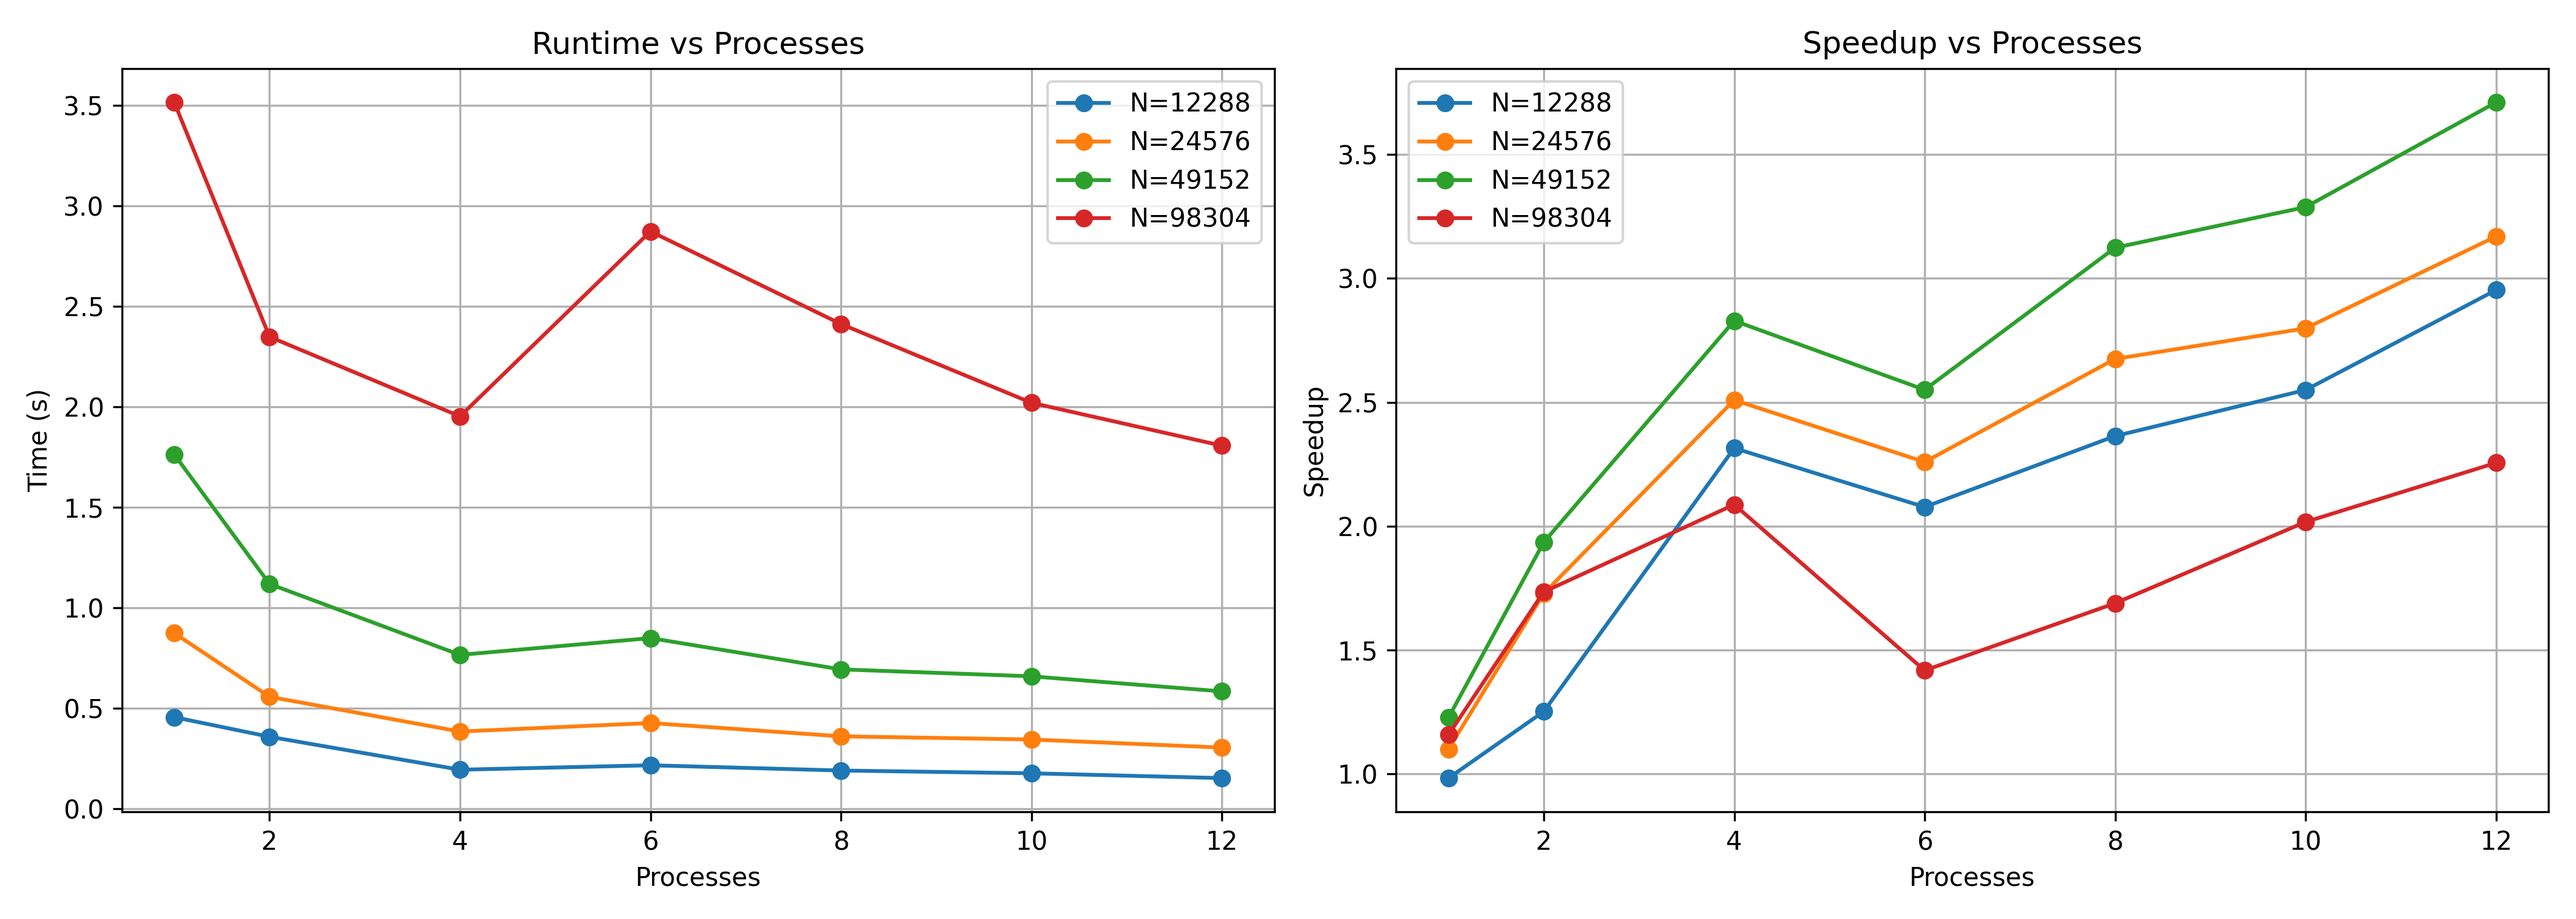
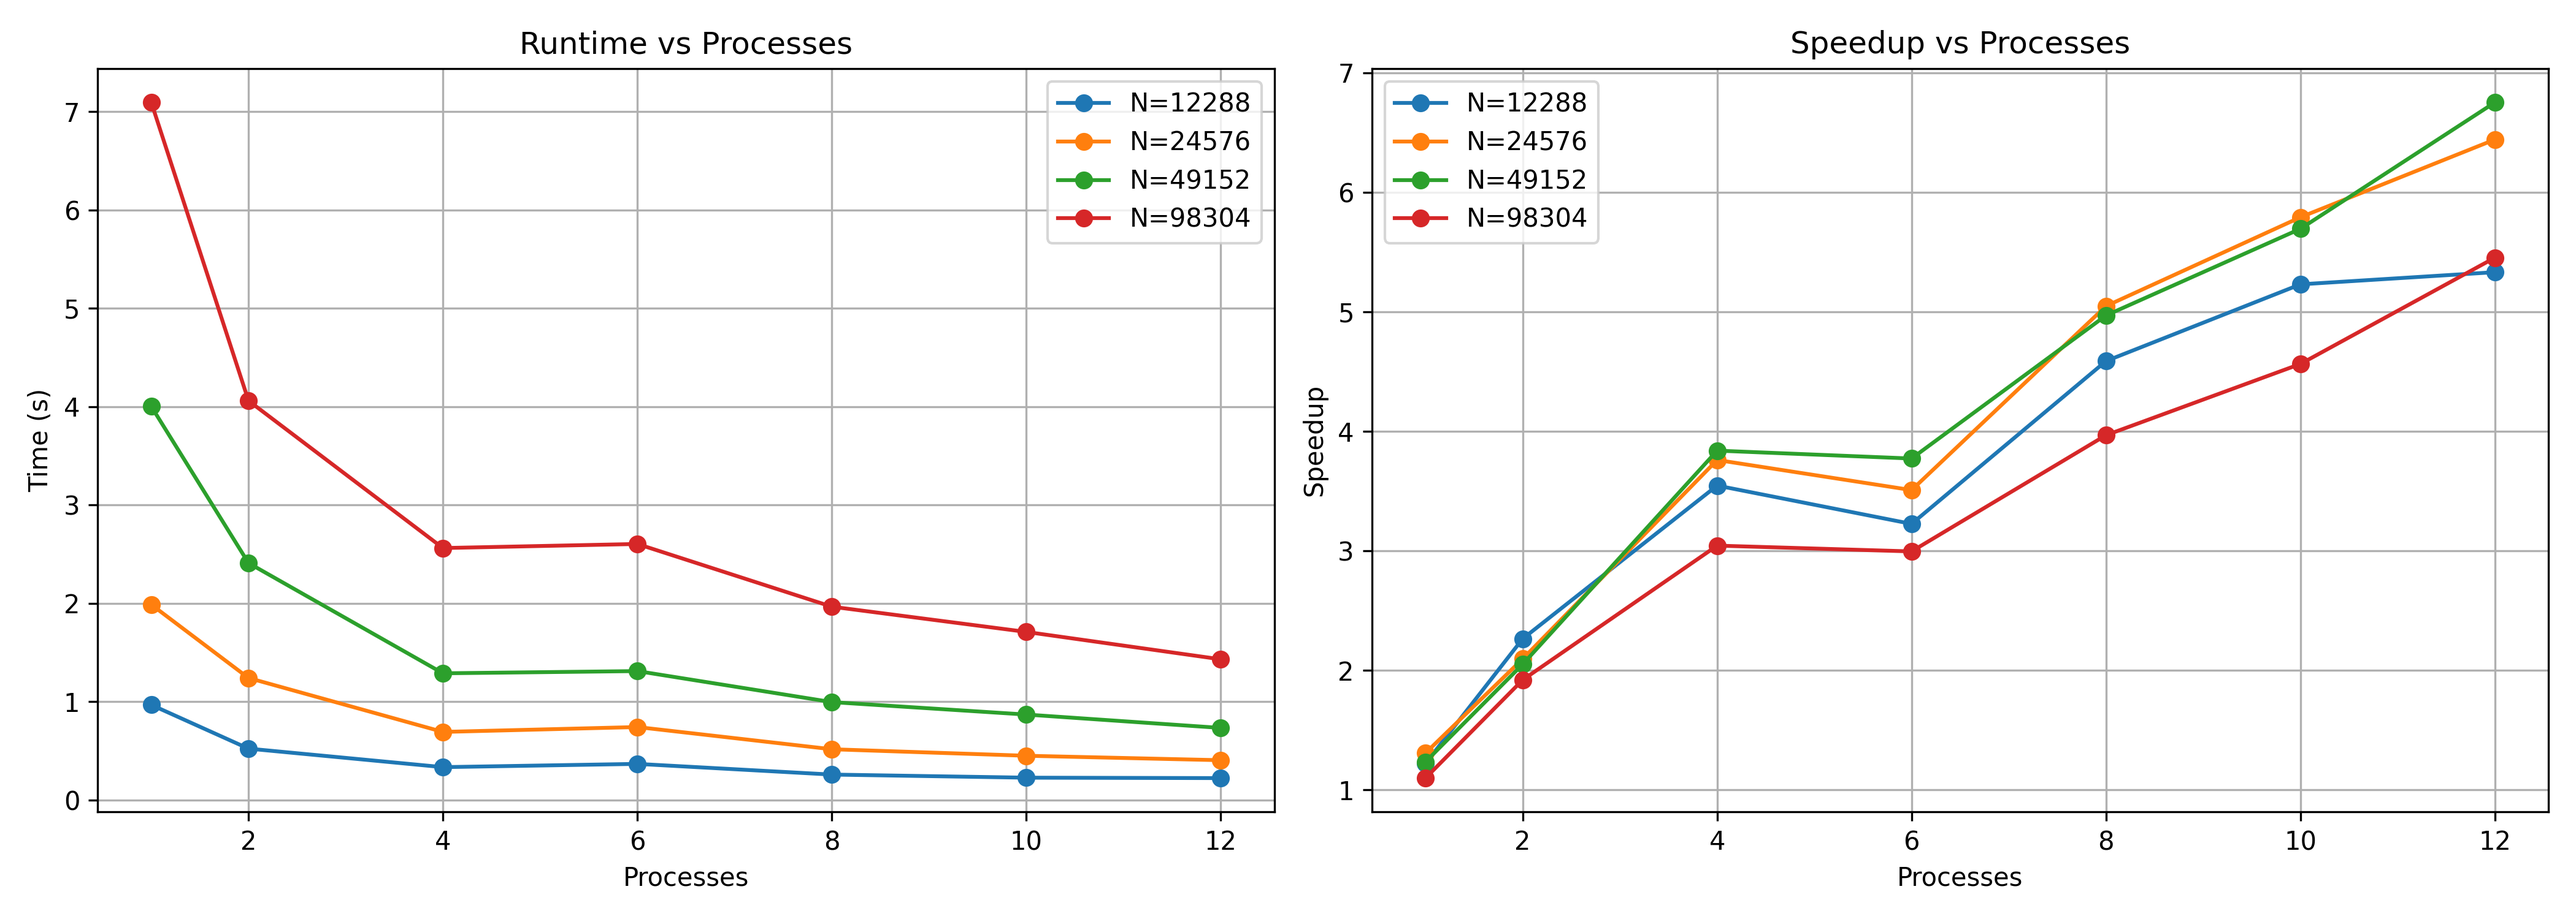
Proper 10k iterations added to run_plot3.py and compilation commands updated accordingly.

diff --git a/10k/run_plot3.py b/10k/run_plot3.py
@@ -1,0 +1,175 @@
+# ================================================
+# Strong-scaling test with Amdahl analysis
+# steps = 10000, N divisible by 12, repeats = 5
+# ================================================
+import os, subprocess, re, statistics, csv
+import matplotlib.pyplot as plt
+import psutil
+import numpy as np
+
+# ------------------------------------------------
+# Detect cores
+# ------------------------------------------------
+def detect_cpu_info():
+    physical = psutil.cpu_count(logical=False)
+    logical  = psutil.cpu_count(logical=True)
+
+    print("\n=== CPU DETECTION ===")
+    print(f"Physical cores : {physical}")
+    print(f"Logical cores  : {logical}")
+    
+    return physical, logical
+
+physical_cores, logical_cores = detect_cpu_info()
+
+# ------------------------------------------------
+# SETTINGS
+# ------------------------------------------------
+lattice_sizes = [12288, 24576, 49152, 98304]     # All divisible by 12
+repeats = 5
+steps = 10000
+
+# p list: use only physical cores for accuracy
+procs = [1, 2, 4, 6, 8, 10, 12]
+
+mpirun_flags = ["--bind-to", "core", "--map-by", "core", "--report-bindings"]
+
+# ------------------------------------------------
+# Compile
+# ------------------------------------------------
+print("\nCompiling programs ...\n")
+subprocess.run(["g++", "-O3", "h_serial.cpp", "-o", "h_serial_10k"])
+subprocess.run(["mpic++", "-O3", "h_parallel.cpp", "-o", "h_parallel_10k"])
+
+env = os.environ.copy()
+env["OMP_NUM_THREADS"] = "1"
+env["STEPS"] = str(steps)     # if you want to pass steps via environment
+
+# Regex for parallel output
+time_regex = re.compile(r"Rank\s+\d+\s*\|\s*time\s*=\s*([\d.]+)\s*s")
+
+# ------------------------------------------------
+# CSV output
+# ------------------------------------------------
+csv_rows = [["N","p","serial_time","parallel_time","speedup","f_estimated"]]
+
+# ------------------------------------------------
+# Amdahl fit helper
+# ------------------------------------------------
+def compute_parallel_fraction(S, p):
+    """Return Amdahl parallel fraction f."""
+    if S <= 1e-12:
+        return 0.0
+    return (1 - 1/S) / (1 - 1/p)
+
+# ------------------------------------------------
+# MAIN LOOP
+# ------------------------------------------------
+plt.figure(figsize=(14,5))
+
+# Subplots for measured S(p)
+plt.subplot(1,2,1)
+plt.title("Measured Speedup vs Processes")
+plt.xlabel("Processes")
+plt.ylabel("Measured Speedup")
+
+# Subplots for Amdahl predicted curves
+plt.subplot(1,2,2)
+plt.title("Amdahl Predicted Speedup")
+plt.xlabel("Processes")
+plt.ylabel("Predicted S(p)")
+
+for N in lattice_sizes:
+    print(f"\n===================== N = {N} =====================")
+
+    # ------------------------------------------
+    # SERIAL baseline
+    # ------------------------------------------
+    serial_times = []
+    for _ in range(repeats):
+        proc = subprocess.run(["./h_serial", str(N)],
+                              capture_output=True, text=True, env=env)
+        out = proc.stdout
+        tmatch = re.findall(r"Serial runtime:\s*([\d.]+)", out)
+        if tmatch:
+            serial_times.append(float(tmatch[-1]))
+    serial_time = statistics.median(serial_times)
+
+    print(f"Serial median time = {serial_time:.8f}s")
+
+    runtimes = []
+    speedups = []
+    valid_p = []
+    f_list  = []
+
+    # ------------------------------------------
+    # PARALLEL runs
+    # ------------------------------------------
+    for pcount in procs:
+
+        trial_times = []
+
+        for _ in range(repeats):
+            cmd = ["mpirun"] + mpirun_flags + \
+                  ["-np", str(pcount), "./h_parallel", str(N)]
+
+            pr = subprocess.run(cmd, capture_output=True, text=True, env=env)
+            out = pr.stdout
+
+            # Parse per-rank times
+            matches = time_regex.findall(out)
+            if matches:
+                tt = [float(t) for t in matches]
+                trial_times.append(max(tt))
+
+        if not trial_times:
+            print(f"⚠ No data for p={pcount}")
+            continue
+
+        med_time = statistics.median(trial_times)
+        speedup = serial_time / med_time
+        f_val = compute_parallel_fraction(speedup, pcount)
+
+        print(f"p={pcount}: t={med_time:.8f}s  speedup={speedup:.3f}  f={f_val:.4f}")
+
+        valid_p.append(pcount)
+        runtimes.append(med_time)
+        speedups.append(speedup)
+        f_list.append(f_val)
+
+        csv_rows.append([N, pcount, serial_time, med_time, speedup, f_val])
+
+    # =====================================================
+    # Plot measured S(p)
+    # =====================================================
+    plt.subplot(1,2,1)
+    plt.plot(valid_p, speedups, marker='o', label=f"N={N}")
+
+    # =====================================================
+    # Fit a single parallel fraction f using largest p
+    # =====================================================
+    if f_list:
+        f_fit = f_list[-1]     # f estimated from highest p
+        print(f"Fitted parallel fraction f ≈ {f_fit:.4f}")
+
+        # Compute predicted Amdahl curve
+        p_vals = np.array(valid_p)
+        S_pred = 1.0 / ((1 - f_fit) + f_fit / p_vals)
+
+        plt.subplot(1,2,2)
+        plt.plot(valid_p, S_pred, marker='o', label=f"N={N} (f={f_fit:.3f})")
+
+# Finalize plots
+plt.subplot(1,2,1); plt.legend(); plt.grid(True)
+plt.subplot(1,2,2); plt.legend(); plt.grid(True)
+
+plt.tight_layout()
+plt.savefig("amdahl_analysis.png", dpi=300)
+print("\nSaved plot amdahl_analysis.png")
+
+# Write CSV
+with open("amdahl_results.csv", "w", newline="") as f:
+    writer = csv.writer(f)
+    writer.writerows(csv_rows)
+
+print("Saved CSV amdahl_results.csv")
